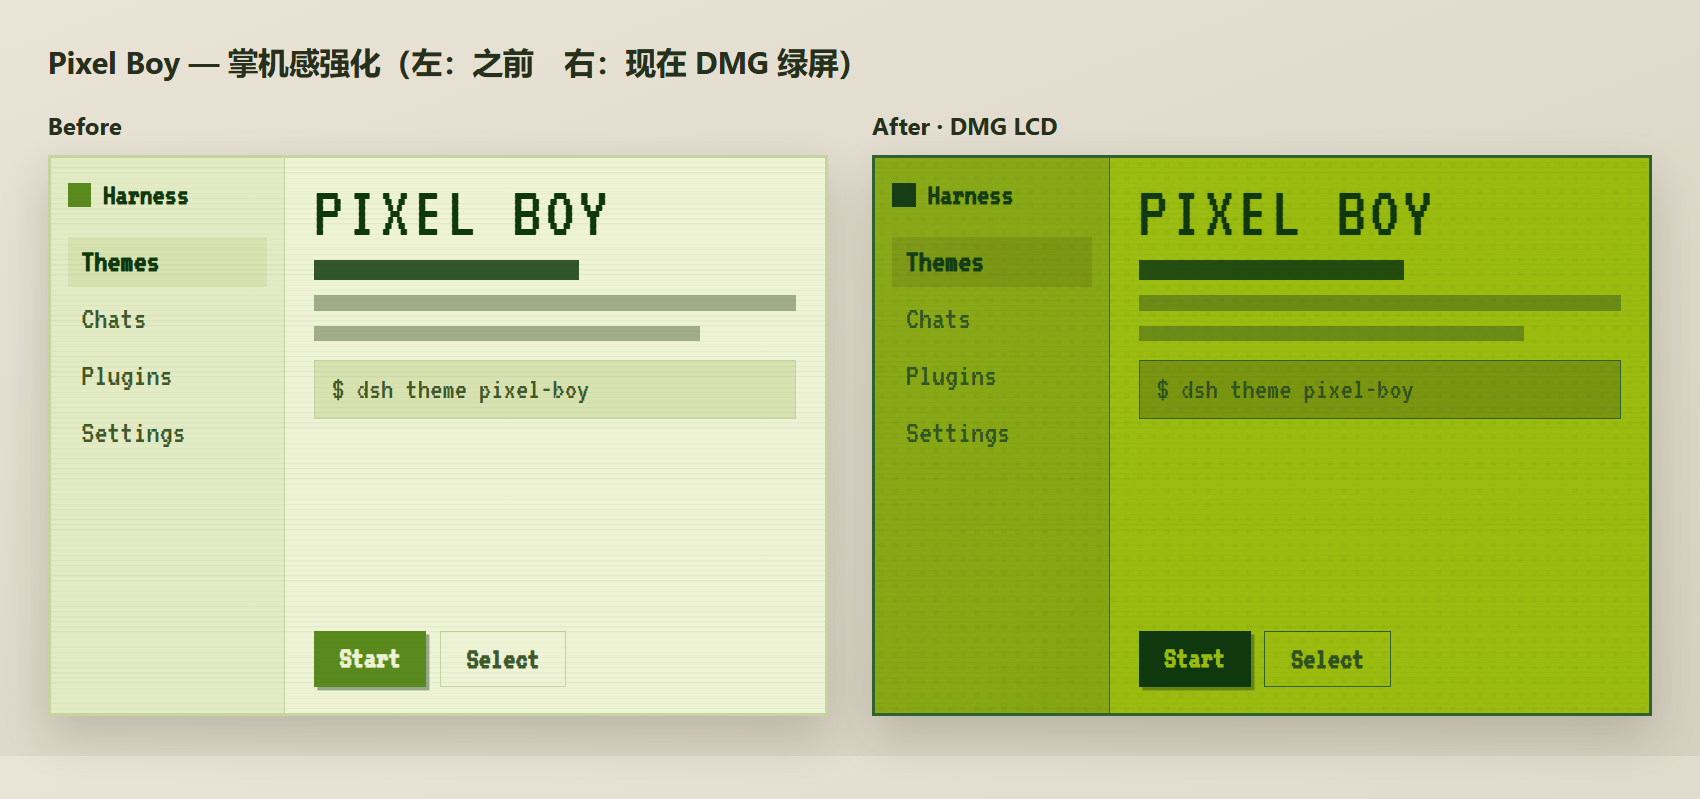
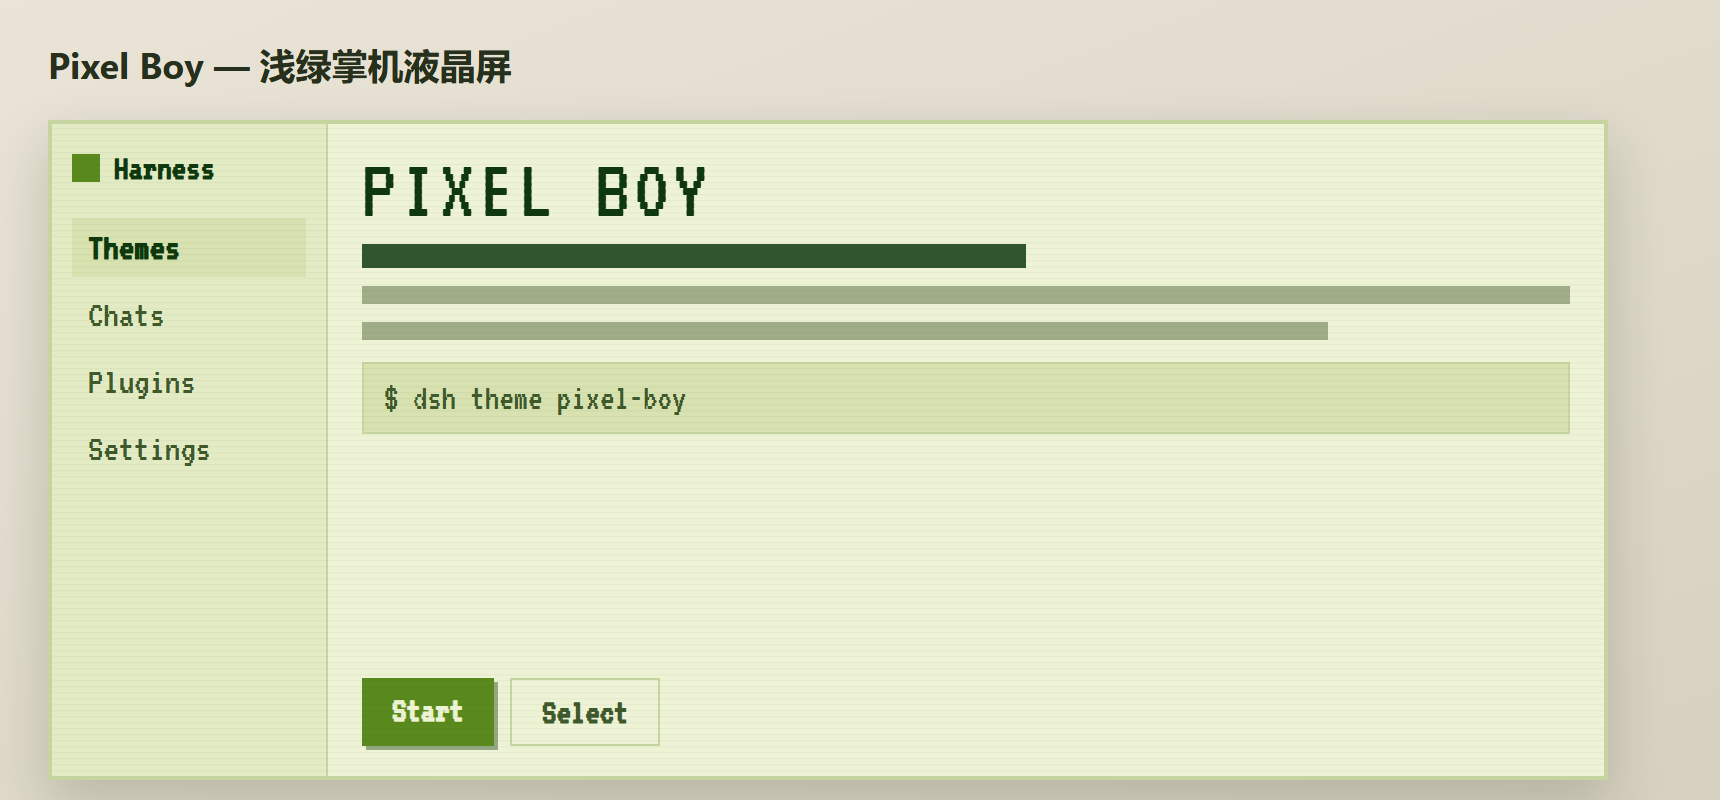
fix(pixel-boy): restore pale-green LCD palette

diff --git a/client.js b/client.js
@@ -37,7 +37,7 @@ window.__ModuleLoader__.load({
   "pixel-mono.name": "Retro TV",
   "pixel-mono.desc": "Old black-and-white television: high-contrast grayscale, scanlines, film grain and a rounded CRT screen.",
   "pixel-boy.name": "Pixel Boy",
-  "pixel-boy.desc": "Game Boy-style DMG green LCD: dot-matrix grid, scanlines and pixel font."
+  "pixel-boy.desc": "Pale-green handheld LCD: scanlines and pixel font."
 };
     const ZH = {
   "label": "复古像素主题",
@@ -69,7 +69,7 @@ window.__ModuleLoader__.load({
   "pixel-mono.name": "复古黑白电视",
   "pixel-mono.desc": "复古旧式黑白电视：高对比灰阶、扫描线、胶片颗粒与圆角 CRT 屏。",
   "pixel-boy.name": "像素掌机",
-  "pixel-boy.desc": "Game Boy 风格 DMG 绿屏：点阵网格、扫描线与像素字体。"
+  "pixel-boy.desc": "浅绿掌机液晶屏：扫描线与像素字体。"
 };
 
     const STYLES = [
@@ -551,48 +551,48 @@ window.__ModuleLoader__.load({
     "id": "pixel-boy",
     "colorScheme": "light",
     "preview": {
-      "bg": "#9bbc0f",
-      "panel": "#a9c72a",
-      "sidebar": "#86a611",
+      "bg": "#eef3d6",
+      "panel": "#f7fae8",
+      "sidebar": "#e3ebc4",
       "text": "#0f380f",
-      "sub": "#2f5220",
-      "accent": "#0f380f",
-      "border": "#306230"
+      "sub": "#40592b",
+      "accent": "#5a8a1e",
+      "border": "#c6d4a0"
     },
     "tokens": {
-      "--dsw-alias-bg-base": "#9bbc0f",
-      "--dsw-alias-bg-layer-1": "#a9c72a",
-      "--dsw-alias-bg-layer-2": "#b4d13c",
-      "--dsw-alias-bg-layer-3": "#bed94a",
-      "--dsw-alias-bg-overlay": "#a9c72a",
+      "--dsw-alias-bg-base": "#eef3d6",
+      "--dsw-alias-bg-layer-1": "#f7fae8",
+      "--dsw-alias-bg-layer-2": "#f7fae8",
+      "--dsw-alias-bg-layer-3": "#e9f0cc",
+      "--dsw-alias-bg-overlay": "#fbfdef",
       "--dsw-alias-label-primary": "#0f380f",
-      "--dsw-alias-label-secondary": "#26491b",
-      "--dsw-alias-label-tertiary": "#3c6029",
-      "--dsw-alias-label-caption": "#527639",
-      "--dsw-alias-border-l1": "#7c990b",
-      "--dsw-alias-border-l2": "#306230",
-      "--dsw-alias-border-l3": "#24471a",
-      "--dsw-alias-brand-primary": "#0f380f",
-      "--dsw-alias-brand-text": "#cfe07a",
-      "--dsw-alias-state-business-primary": "#0f380f",
-      "--dsw-alias-label-on-color": "#cfe07a",
-      "--dsw-alias-link": "#306230",
-      "--dsw-alias-interactive-bg-hover": "rgba(15,56,15,0.10)",
-      "--dsw-alias-interactive-bg-active": "rgba(15,56,15,0.18)",
-      "--dsw-alias-button-primary-fill": "#0f380f",
-      "--dsw-alias-button-primary-hover": "#24471a",
-      "--dsw-alias-markdown-code-block": "#8baa1e",
-      "--dsw-alias-markdown-inline-code": "#86a611",
-      "--dsw-alias-card-fill": "#a9c72a",
-      "--dsw-alias-card-fill-hover": "#b4d13c",
-      "--dsw-alias-toast-bg": "#0f380f",
-      "--dsw-alias-toast-label": "#d6e888",
-      "--dsw-alias-tooltip-bg": "#0f380f",
-      "--dsw-alias-tooltip-label": "#d6e888",
-      "--dsw-alias-hovercard-bg": "#0f380f",
-      "--dsw-specific-sidebar-fill": "#86a611",
-      "--dsw-specific-sidebar-nav-item-active": "#7a9510",
-      "--dsw-specific-sidebar-nav-item-active-accent": "#6f8a0e"
+      "--dsw-alias-label-secondary": "#33502a",
+      "--dsw-alias-label-tertiary": "#4d6b39",
+      "--dsw-alias-label-caption": "#6a8654",
+      "--dsw-alias-border-l1": "#dbe5bb",
+      "--dsw-alias-border-l2": "#c6d4a0",
+      "--dsw-alias-border-l3": "#aebd83",
+      "--dsw-alias-brand-primary": "#4f7d18",
+      "--dsw-alias-brand-text": "#ffffff",
+      "--dsw-alias-state-business-primary": "#4f7d18",
+      "--dsw-alias-label-on-color": "#ffffff",
+      "--dsw-alias-link": "#4f7d18",
+      "--dsw-alias-interactive-bg-hover": "rgba(79,125,24,0.10)",
+      "--dsw-alias-interactive-bg-active": "rgba(79,125,24,0.16)",
+      "--dsw-alias-button-primary-fill": "#4f7d18",
+      "--dsw-alias-button-primary-hover": "#3f6612",
+      "--dsw-alias-markdown-code-block": "#e9f0cc",
+      "--dsw-alias-markdown-inline-code": "#e3ebc4",
+      "--dsw-alias-card-fill": "#f7fae8",
+      "--dsw-alias-card-fill-hover": "#eef3d6",
+      "--dsw-alias-toast-bg": "#24400f",
+      "--dsw-alias-toast-label": "#f2f8e0",
+      "--dsw-alias-tooltip-bg": "#24400f",
+      "--dsw-alias-tooltip-label": "#f2f8e0",
+      "--dsw-alias-hovercard-bg": "#24400f",
+      "--dsw-specific-sidebar-fill": "#e3ebc4",
+      "--dsw-specific-sidebar-nav-item-active": "#d7e2b0",
+      "--dsw-specific-sidebar-nav-item-active-accent": "#c9d79c"
     }
   },
   {
@@ -647,7 +647,7 @@ window.__ModuleLoader__.load({
 
[1 lines of base64/hex data omitted]
 
[2 lines of base64/hex data omitted]
 
     function readStored() {
       try {

diff --git a/README.en.md b/README.en.md
@@ -17,7 +17,7 @@ Open it to restyle the entire application with one of twelve visual styles (seve
 | **Ice CRT** | Cool cyan CRT glow |
 | **Synthwave** | Hot magenta vaporwave neon |
 | **Retro TV** | Old black-and-white television: grayscale palette, thick scanlines, film grain, rounded CRT frame |
-| **Pixel Boy** | Game Boy DMG green LCD: dot-matrix grid, scanlines, pixel font |
+| **Pixel Boy** | Pale-green handheld LCD: scanlines, pixel font |
 | **Sunset Dune** | Dusk gradient of amber, rose and violet — soft warm glow |
 
 ## How it works

diff --git a/README.md b/README.md
@@ -17,7 +17,7 @@
 | **冰蓝屏 Ice CRT** | 清冷的冰蓝 CRT 荧光 |
 | **霓虹品红 Synthwave** | 品红霓虹的蒸汽波风 |
 | **复古黑白电视 Retro TV** | 复古旧式黑白电视：灰阶、粗扫描线、胶片颗粒、圆角 CRT 屏框 |
-| **像素掌机 Pixel Boy** | Game Boy DMG 绿屏：点阵网格、扫描线、像素字体 |
+| **像素掌机 Pixel Boy** | 浅绿掌机液晶屏：扫描线、像素字体 |
 | **暮色沙丘 Sunset Dune** | 琥珀→玫瑰→暮紫的黄昏渐变，柔和暖光 |
 
 ## 工作原理
